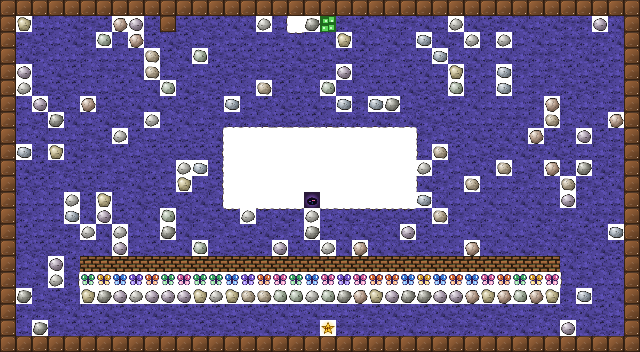
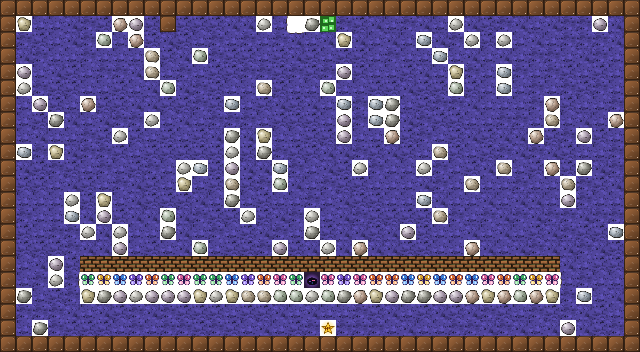
Cueva M*: el nido va en el medio de la hilera de mariposas
Claude-Session: https://claude.ai/code/session_016YFeMcHkPfX7Lki2YKdEin

Changed region(s): [[0.3438, 0.3125, 0.6562, 0.5938], [0.4688, 0.75, 0.5, 0.8438]]

diff --git a/index.html b/index.html
@@ -715,11 +715,9 @@ AmoebaTime=140
 Point=18 1 INBOX
 Point=10 1 OUTBOX
 Point=20 1 AMOEBA
-FillRect=14 8 25 12 SPACE
-Line=14 7 25 7 DIRT
-Point=19 12 NEST
 Line=5 16 34 16 WALL
 Line=5 17 34 17 BUTTERFLYl
+Point=19 17 NEST
 Line=5 18 34 18 BOULDER
 Rectangle=5 19 34 20 DIRT
 [/objects]

diff --git a/README.md b/README.md
@@ -54,7 +54,7 @@ Si los dos niños se quedan quietos uno al lado del otro, juegan piedra, papel o
 
 ## Extras
 
-- **Cueva M\*** (en Boulder Dash 1, después de la M): una variante de «Apocalypse» con un nido del que salen mariposas sin parar (hasta 8 a la vez). Cada mariposa aplastada con una roca da diamantes.
+- **Cueva M\*** (en Boulder Dash 1, después de la M): una variante de «Apocalypse» con un nido en el medio de la hilera de mariposas: cada vez que se libera una casilla a su lado, sale una mariposa nueva (hasta 8 más que las de la hilera original). Cada mariposa aplastada con una roca da diamantes.
 - **Estrellas coleccionables:** cada cueva esconde una estrella con su letra en el lugar más lejano de la entrada. Recogerla no es necesario para salir, pero queda guardada y se ve en ELEGIR CUEVA (★ y «Estrellas: n de 21»).
 - **Diamantes que vuelan** al contador al recogerlos, y anillos dorados cuando se abre la salida.
 - **Cueva viva:** hongos que brillan en el suelo, raíces colgando del techo y gotas que caen y salpican (solo dibujo).
